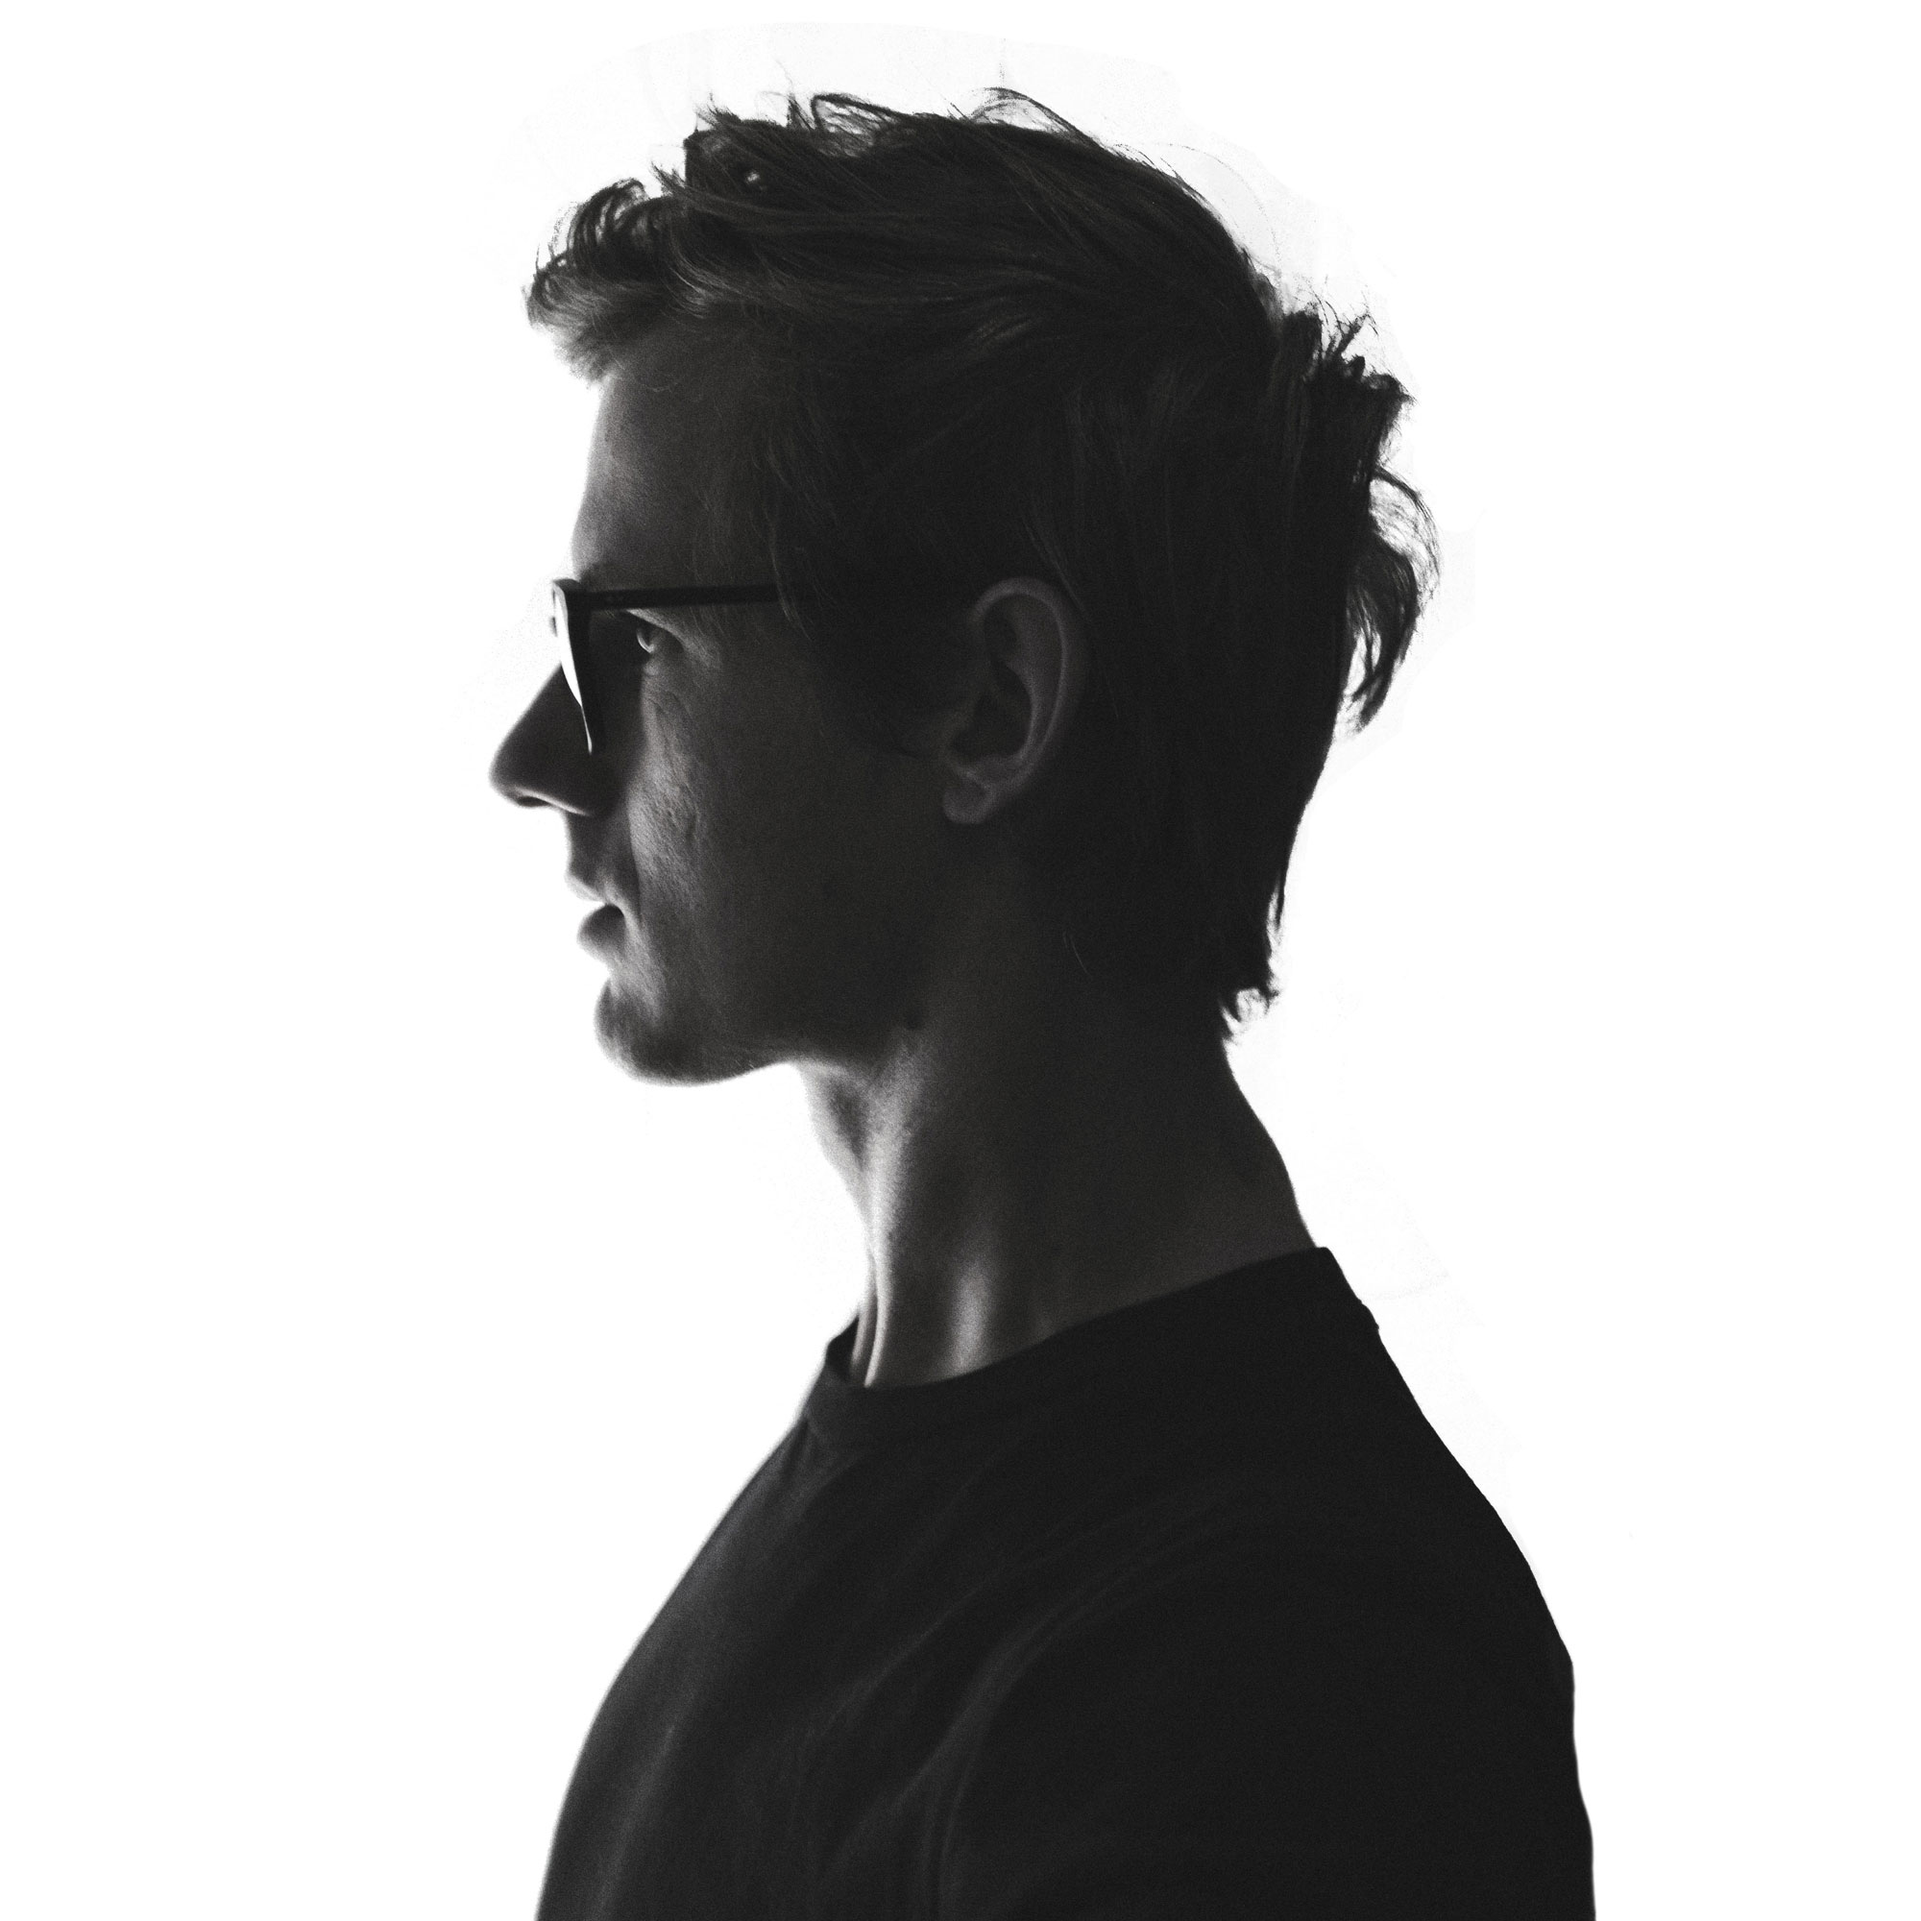
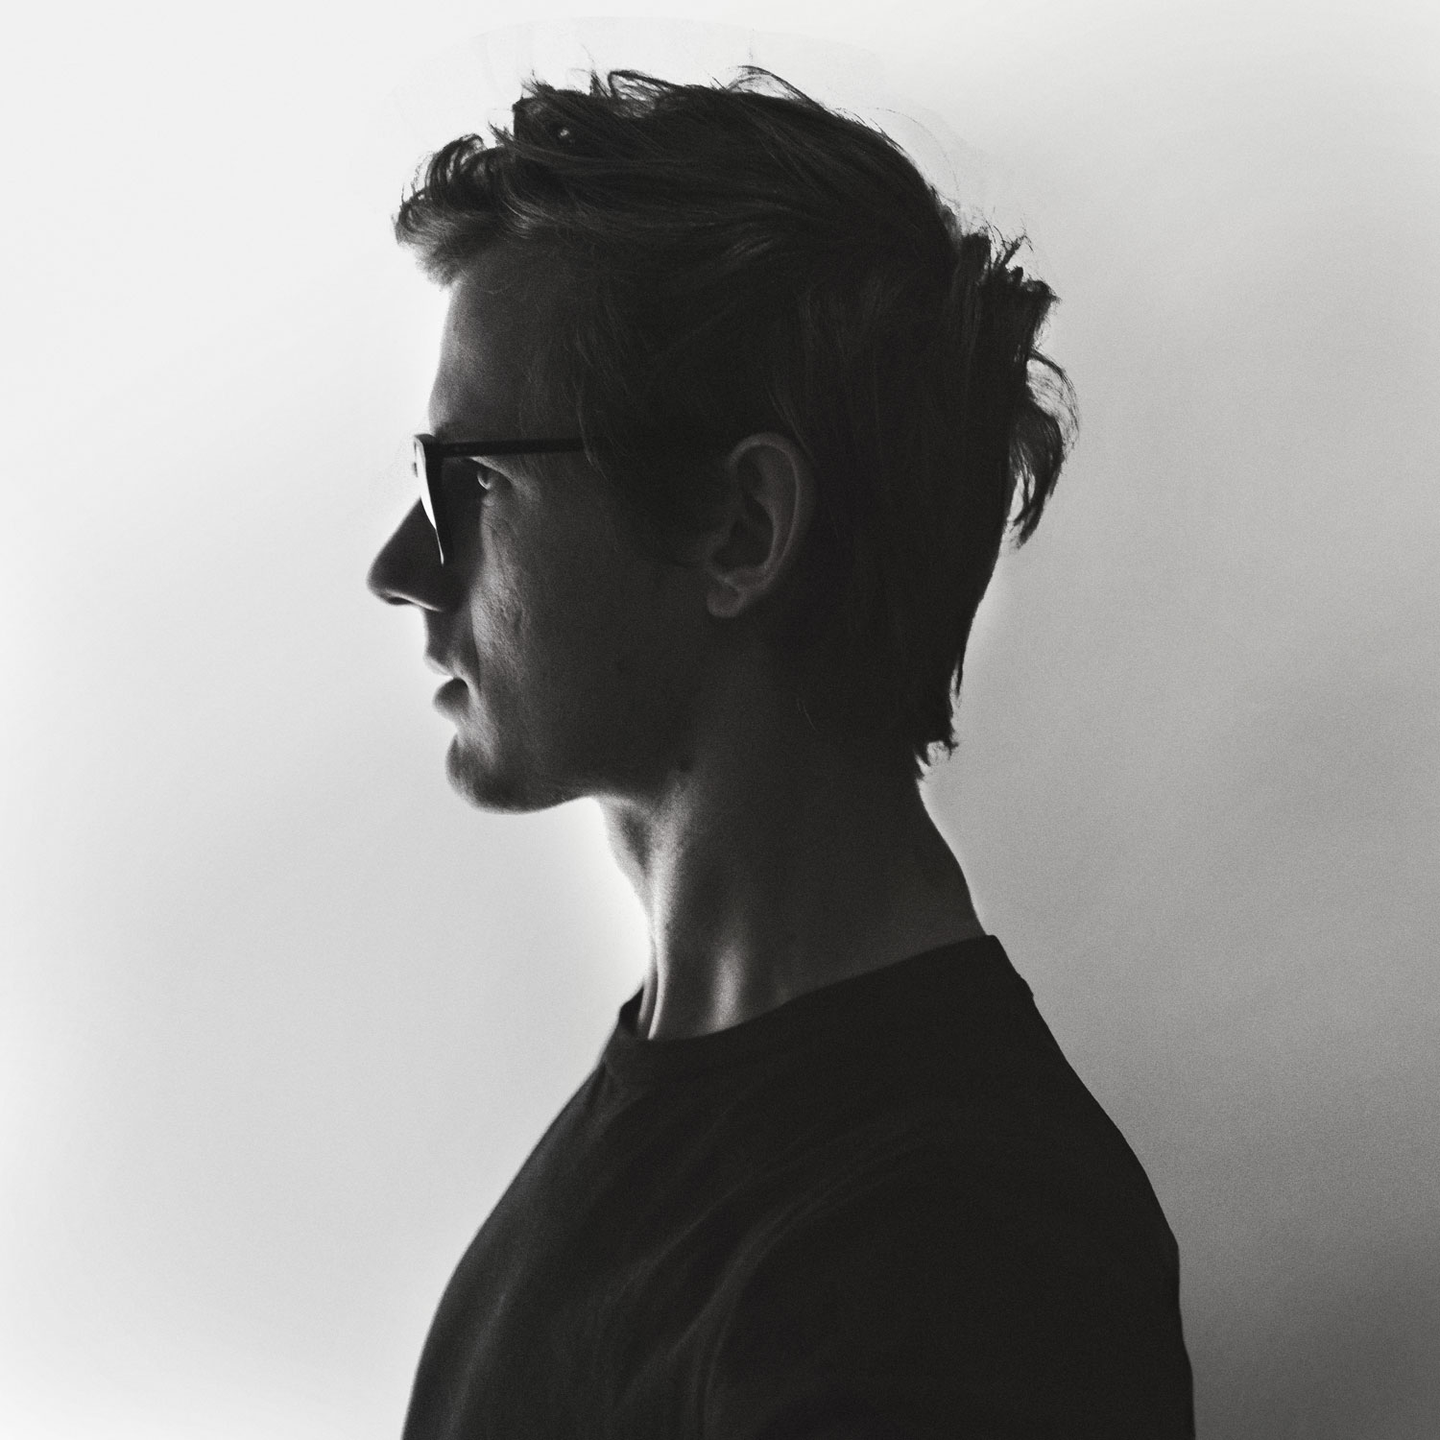
Tidying up, moved base outside of figure masking

diff --git a/double-exposure/double-exposure.css b/double-exposure/double-exposure.css
@@ -1,1 +1,1 @@
-body{background-color:#fff;color:#423c3c}#double-exposure{box-sizing:border-box;width:100vw;height:100vh;padding:10vh;-webkit-perspective:2000px;perspective:2000px}#double-exposure #double-exposure-outer{position:relative;width:80vw;height:80vw;max-width:80vh;max-height:80vh;margin:0 auto}#double-exposure #double-exposure-outer:hover #double-exposure-wrapper,#double-exposure #double-exposure-outer:hover img{transition-duration:0.05s}#double-exposure #double-exposure-outer::after{content:'';position:absolute;z-index:-1;top:0;left:0;width:100%;height:110%;background-image:radial-gradient(circle closest-side at center, rgba(0,0,0,0.66), transparent);border-radius:50%}#double-exposure #double-exposure-wrapper{position:relative;overflow:hidden;width:100%;height:100%;box-shadow:0 40px 100px rgba(0,0,0,0.1),0 10px 10px rgba(0,0,0,0.05);border-radius:15px}#double-exposure #double-exposure-wrapper,#double-exposure img{transition:-webkit-transform ease 0.33s;transition:transform ease 0.33s;transition:transform ease 0.33s, -webkit-transform ease 0.33s}#double-exposure figure{position:absolute;top:0;left:0;width:100%;height:100%;-webkit-mask-image:url("/double-exposure/mask.jpg");mask-image:url("/double-exposure/mask.jpg");-webkit-mask-position:center center;mask-position:center center;-webkit-mask-repeat:no-repeat;mask-repeat:no-repeat;-webkit-mask-size:cover;mask-size:cover}#double-exposure img{position:absolute;max-width:100%;max-height:100%;-webkit-transform-origin:center center;-ms-transform-origin:center center;transform-origin:center center}#double-exposure #base{z-index:1}#double-exposure #exposure{z-index:2;mix-blend-mode:screen}#double-exposure #bokeh1,#double-exposure #bokeh2,#double-exposure #bokeh3,#double-exposure #bokeh4{z-index:3;mix-blend-mode:screen}#coords{position:absolute;top:0;left:0}
+body{background-color:#fff;color:#423c3c}#double-exposure{box-sizing:border-box;width:100vw;height:100vh;padding:10vh;-webkit-perspective:2000px;perspective:2000px}#double-exposure #double-exposure-outer{position:relative;width:80vw;height:80vw;max-width:80vh;max-height:80vh;margin:0 auto}#double-exposure #double-exposure-outer:hover #double-exposure-wrapper,#double-exposure #double-exposure-outer:hover img{transition-duration:0.05s}#double-exposure #double-exposure-outer::after{content:'';position:absolute;z-index:-1;top:0;left:0;width:100%;height:110%;background-image:radial-gradient(circle closest-side at center, rgba(0,0,0,0.66), transparent);border-radius:50%}#double-exposure #double-exposure-wrapper{position:relative;overflow:hidden;width:100%;height:100%;box-shadow:0 40px 100px rgba(0,0,0,0.1),0 10px 10px rgba(0,0,0,0.05);border-radius:15px}#double-exposure #double-exposure-wrapper,#double-exposure img{transition:-webkit-transform ease 0.33s;transition:transform ease 0.33s;transition:transform ease 0.33s, -webkit-transform ease 0.33s}#double-exposure #base{z-index:1}#double-exposure figure{position:absolute;z-index:2;top:0;left:0;width:100%;height:100%;-webkit-mask-image:url("/double-exposure/mask.png");mask-image:url("/double-exposure/mask.png");-webkit-mask-position:center center;mask-position:center center;-webkit-mask-repeat:no-repeat;mask-repeat:no-repeat;-webkit-mask-size:cover;mask-size:cover;mix-blend-mode:screen}#double-exposure img{position:absolute;max-width:100%;max-height:100%;-webkit-transform-origin:center center;-ms-transform-origin:center center;transform-origin:center center}#double-exposure #exposure{z-index:1;mix-blend-mode:screen}#double-exposure #bokeh-1,#double-exposure #bokeh-2,#double-exposure #bokeh-3,#double-exposure #bokeh-4{z-index:2;mix-blend-mode:screen}

diff --git a/_js/double-exposure.js b/_js/double-exposure.js
@@ -12,27 +12,20 @@ window.onresize = calcWindowSize;
 function addTransform(event) {
   var x = event.clientX;
   var y = event.clientY;
-  // var w = window.innerWidth;
-  // var h = window.innerHeight;
-  // var px = Math.floor(((x / w * 100) - 50) * 2);
-  // var py = Math.floor(((y / h * 100) - 50) * 2);
 
   var wrapperWidth = wrapper.offsetWidth;
   var wrapperHeight = wrapper.offsetWidth;
   var wrapperX = x - (w - wrapperWidth) / 2;
-  // var wrapperPx = Math.floor(((wrapperX / wrapperWidth * 100) - 50) * 2);
   var wrapperPx = ((wrapperX / wrapperWidth * 100) - 50) * 2;
   var wrapperY = y - (h - wrapperHeight) / 2;
-  // var wrapperPy = Math.floor(((wrapperY / wrapperHeight * 100) - 50) * 2);
   var wrapperPy = ((wrapperY / wrapperHeight * 100) - 50) * 2;
 
-  // document.getElementById("coords").innerHTML = "x: " + x + ", px: " + px + ", y: " + y + ", py: " + py + "<br/> wrapperPx: " + wrapperPx + ", wrapperPy: " + wrapperPy;
   wrapper.style.transform = "rotateY(" + wrapperPx / 10 + "deg) rotateX(" + wrapperPy / -10 + "deg)";
   document.getElementById("exposure").style.transform = "translate(" + wrapperPx / -7 + "px, " + wrapperPy / -7 + "px)";
-  document.getElementById("bokeh1").style.transform = "translate(" + wrapperPx / -1 + "px, " + wrapperPy / -2 + "px)";
-  document.getElementById("bokeh2").style.transform = "translate(" + wrapperPx / -2 + "px, " + wrapperPy / -3 + "px)";
-  document.getElementById("bokeh3").style.transform = "translate(" + wrapperPx / -3 + "px, " + wrapperPy / -4 + "px)";
-  document.getElementById("bokeh4").style.transform = "translate(" + wrapperPx / -4 + "px, " + wrapperPy / -5 + "px)";
+  document.getElementById("bokeh-1").style.transform = "translate(" + wrapperPx / -1 + "px, " + wrapperPy / -2 + "px)";
+  document.getElementById("bokeh-2").style.transform = "translate(" + wrapperPx / -2 + "px, " + wrapperPy / -3 + "px)";
+  document.getElementById("bokeh-3").style.transform = "translate(" + wrapperPx / -3 + "px, " + wrapperPy / -4 + "px)";
+  document.getElementById("bokeh-4").style.transform = "translate(" + wrapperPx / -4 + "px, " + wrapperPy / -5 + "px)";
   // document.getElementById("gloss").style.transform = "translate(" + wrapperX + "px, " + wrapperY + "px)";
   // document.getElementById("shadow").style.transform = "translate(" + wrapperX * 1 + "px, " + wrapperY * 1 + "px)";
 }
@@ -40,8 +33,8 @@ function addTransform(event) {
 function clearTransform() {
   document.getElementById("double-exposure-wrapper").style.transform = "none";
   document.getElementById("exposure").style.transform = "none";
-  document.getElementById("bokeh1").style.transform = "none";
-  document.getElementById("bokeh2").style.transform = "none";
-  document.getElementById("bokeh3").style.transform = "none";
-  document.getElementById("bokeh4").style.transform = "none";
+  document.getElementById("bokeh-1").style.transform = "none";
+  document.getElementById("bokeh-2").style.transform = "none";
+  document.getElementById("bokeh-3").style.transform = "none";
+  document.getElementById("bokeh-4").style.transform = "none";
 }

diff --git a/double-exposure/double-exposure.js b/double-exposure/double-exposure.js
@@ -1,1 +1,1 @@
-function calcWindowSize(){w=window.innerWidth,h=window.innerHeight}function addTransform(event){var x=event.clientX,y=event.clientY,wrapperWidth=wrapper.offsetWidth,wrapperHeight=wrapper.offsetWidth,wrapperX=x-(w-wrapperWidth)/2,wrapperPx=2*(wrapperX/wrapperWidth*100-50),wrapperY=y-(h-wrapperHeight)/2,wrapperPy=2*(wrapperY/wrapperHeight*100-50);wrapper.style.transform="rotateY("+wrapperPx/10+"deg) rotateX("+wrapperPy/-10+"deg)",document.getElementById("exposure").style.transform="translate("+wrapperPx/-7+"px, "+wrapperPy/-7+"px)",document.getElementById("bokeh1").style.transform="translate("+wrapperPx/-1+"px, "+wrapperPy/-2+"px)",document.getElementById("bokeh2").style.transform="translate("+wrapperPx/-2+"px, "+wrapperPy/-3+"px)",document.getElementById("bokeh3").style.transform="translate("+wrapperPx/-3+"px, "+wrapperPy/-4+"px)",document.getElementById("bokeh4").style.transform="translate("+wrapperPx/-4+"px, "+wrapperPy/-5+"px)"}function clearTransform(){document.getElementById("double-exposure-wrapper").style.transform="none",document.getElementById("exposure").style.transform="none",document.getElementById("bokeh1").style.transform="none",document.getElementById("bokeh2").style.transform="none",document.getElementById("bokeh3").style.transform="none",document.getElementById("bokeh4").style.transform="none"}var w=window.innerWidth,h=window.innerHeight,wrapper=document.getElementById("double-exposure-wrapper");window.onresize=calcWindowSize;
+function calcWindowSize(){w=window.innerWidth,h=window.innerHeight}function addTransform(event){var x=event.clientX,y=event.clientY,wrapperWidth=wrapper.offsetWidth,wrapperHeight=wrapper.offsetWidth,wrapperX=x-(w-wrapperWidth)/2,wrapperPx=2*(wrapperX/wrapperWidth*100-50),wrapperY=y-(h-wrapperHeight)/2,wrapperPy=2*(wrapperY/wrapperHeight*100-50);wrapper.style.transform="rotateY("+wrapperPx/10+"deg) rotateX("+wrapperPy/-10+"deg)",document.getElementById("exposure").style.transform="translate("+wrapperPx/-7+"px, "+wrapperPy/-7+"px)",document.getElementById("bokeh-1").style.transform="translate("+wrapperPx/-1+"px, "+wrapperPy/-2+"px)",document.getElementById("bokeh-2").style.transform="translate("+wrapperPx/-2+"px, "+wrapperPy/-3+"px)",document.getElementById("bokeh-3").style.transform="translate("+wrapperPx/-3+"px, "+wrapperPy/-4+"px)",document.getElementById("bokeh-4").style.transform="translate("+wrapperPx/-4+"px, "+wrapperPy/-5+"px)"}function clearTransform(){document.getElementById("double-exposure-wrapper").style.transform="none",document.getElementById("exposure").style.transform="none",document.getElementById("bokeh-1").style.transform="none",document.getElementById("bokeh-2").style.transform="none",document.getElementById("bokeh-3").style.transform="none",document.getElementById("bokeh-4").style.transform="none"}var w=window.innerWidth,h=window.innerHeight,wrapper=document.getElementById("double-exposure-wrapper");window.onresize=calcWindowSize;

diff --git a/_scss/extra/double-exposure.scss b/_scss/extra/double-exposure.scss
@@ -58,16 +58,22 @@ body {
     transition: transform ease 0.33s;
   }
 
+  #base {
+    z-index: 1;
+  }
+
   figure {
     position: absolute;
+    z-index: 2;
     top: 0;
     left: 0;
     width: 100%;
     height: 100%;
-    mask-image: url('/double-exposure/mask.jpg');
+    mask-image: url('/double-exposure/mask.png');
     mask-position: center center;
     mask-repeat: no-repeat;
     mask-size: cover;
+    mix-blend-mode: screen;
   }
 
   img {
@@ -77,25 +83,16 @@ body {
     transform-origin: center center;
   }
 
-  #base {
-    z-index: 1;
-  }
-
   #exposure {
-    z-index: 2;
+    z-index: 1;
     mix-blend-mode: screen;
   }
 
-  // #bokeh {
-  //   z-index: 3;
-  //   mix-blend-mode: screen;
-  // }
-
-  #bokeh1,
-  #bokeh2,
-  #bokeh3,
-  #bokeh4 {
-    z-index: 3;
+  #bokeh-1,
+  #bokeh-2,
+  #bokeh-3,
+  #bokeh-4 {
+    z-index: 2;
     mix-blend-mode: screen;
   }
 
@@ -126,11 +123,4 @@ body {
   //   z-index: -1;
   //   background-image: radial-gradient(circle closest-side at center, rgba(0,0,0,1), rgba(0,0,0,0));
   // }
-}
-
-#coords {
-  position: absolute;
-  top: 0;
-  left: 0;
-  // font-size: 12px;
 }

diff --git a/double-exposure/index.html b/double-exposure/index.html
@@ -38,11 +38,10 @@
   <body>
     <div id="double-exposure">
       <div id="double-exposure-outer" onmousemove="addTransform(event)" onmouseout="clearTransform()">
-        <div id="double-exposure-wrapper">
-          <figure><img id="bokeh1" src="bokeh1.jpg"><img id="bokeh2" src="bokeh2.jpg"><img id="bokeh3" src="bokeh3.jpg"><img id="bokeh4" src="bokeh4.jpg"><img id="exposure" src="exposure.jpg"><img id="base" src="base.jpg"></figure>
+        <div id="double-exposure-wrapper"><img id="base" src="base.jpg">
+          <figure><img id="bokeh-1" src="bokeh-1.jpg"><img id="bokeh-2" src="bokeh-2.jpg"><img id="bokeh-3" src="bokeh-3.jpg"><img id="bokeh-4" src="bokeh-4.jpg"><img id="exposure" src="exposure.jpg"></figure>
         </div>
       </div>
-      <p id="coords"></p>
     </div>
   </body>
 </html>
